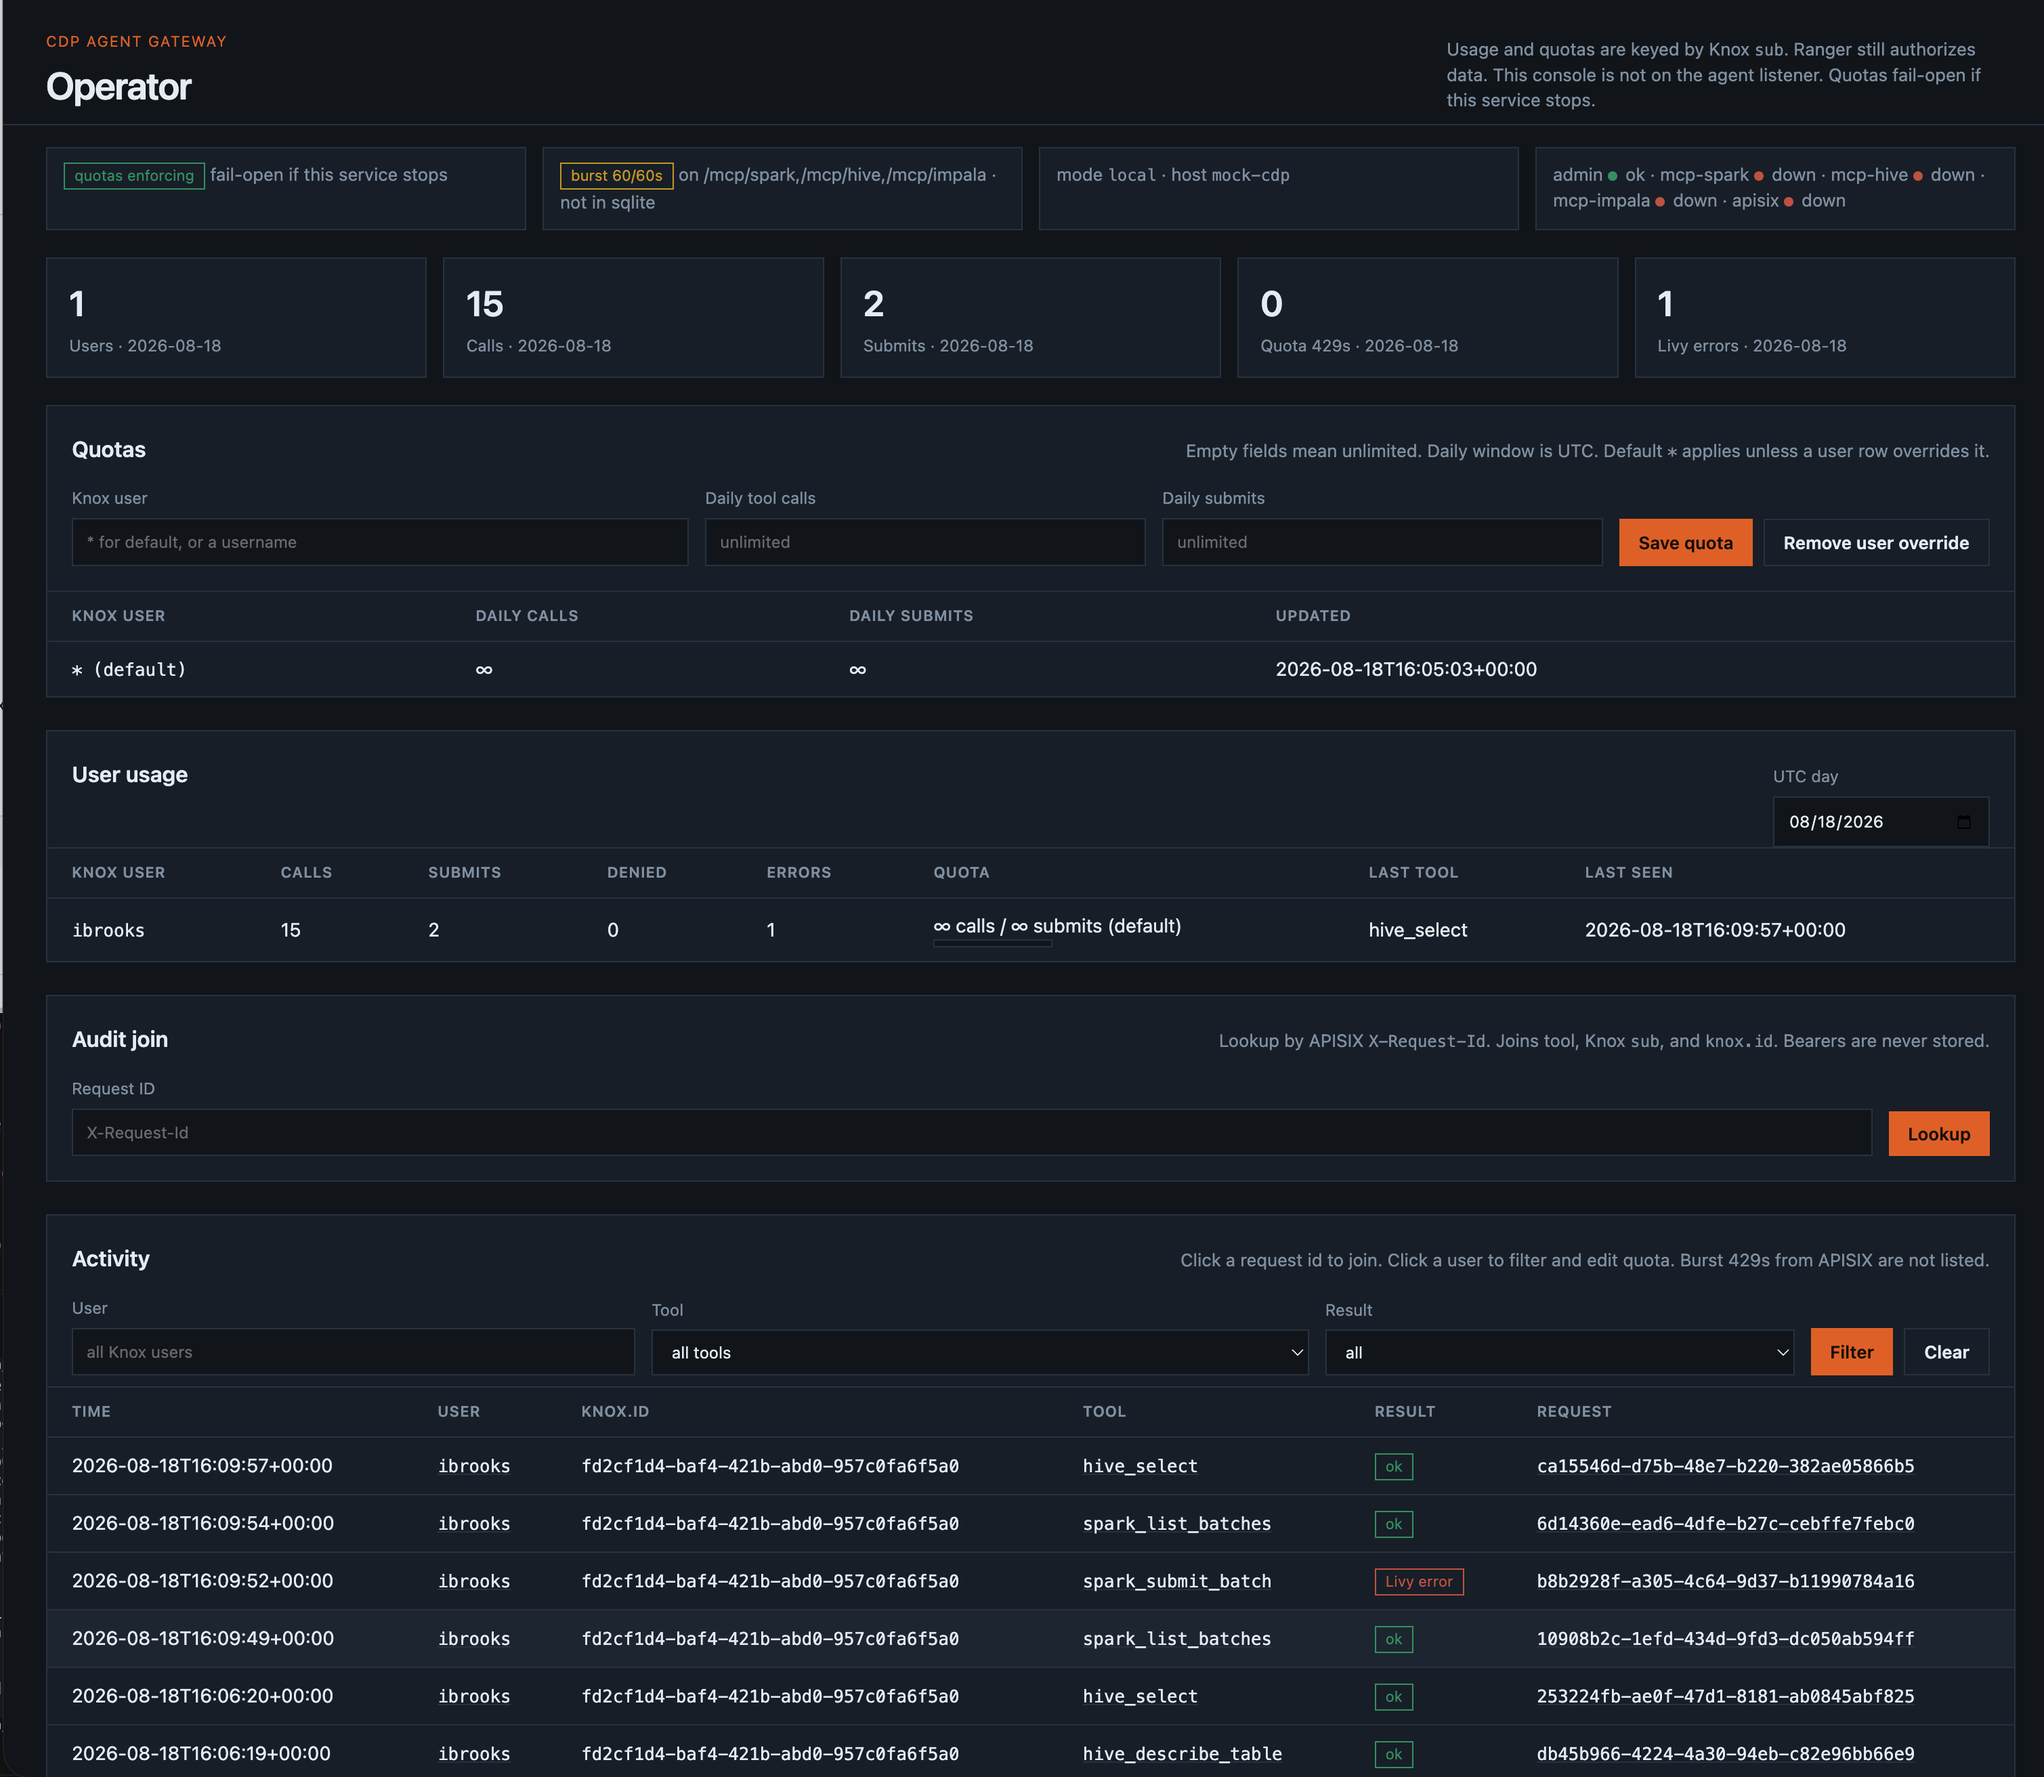
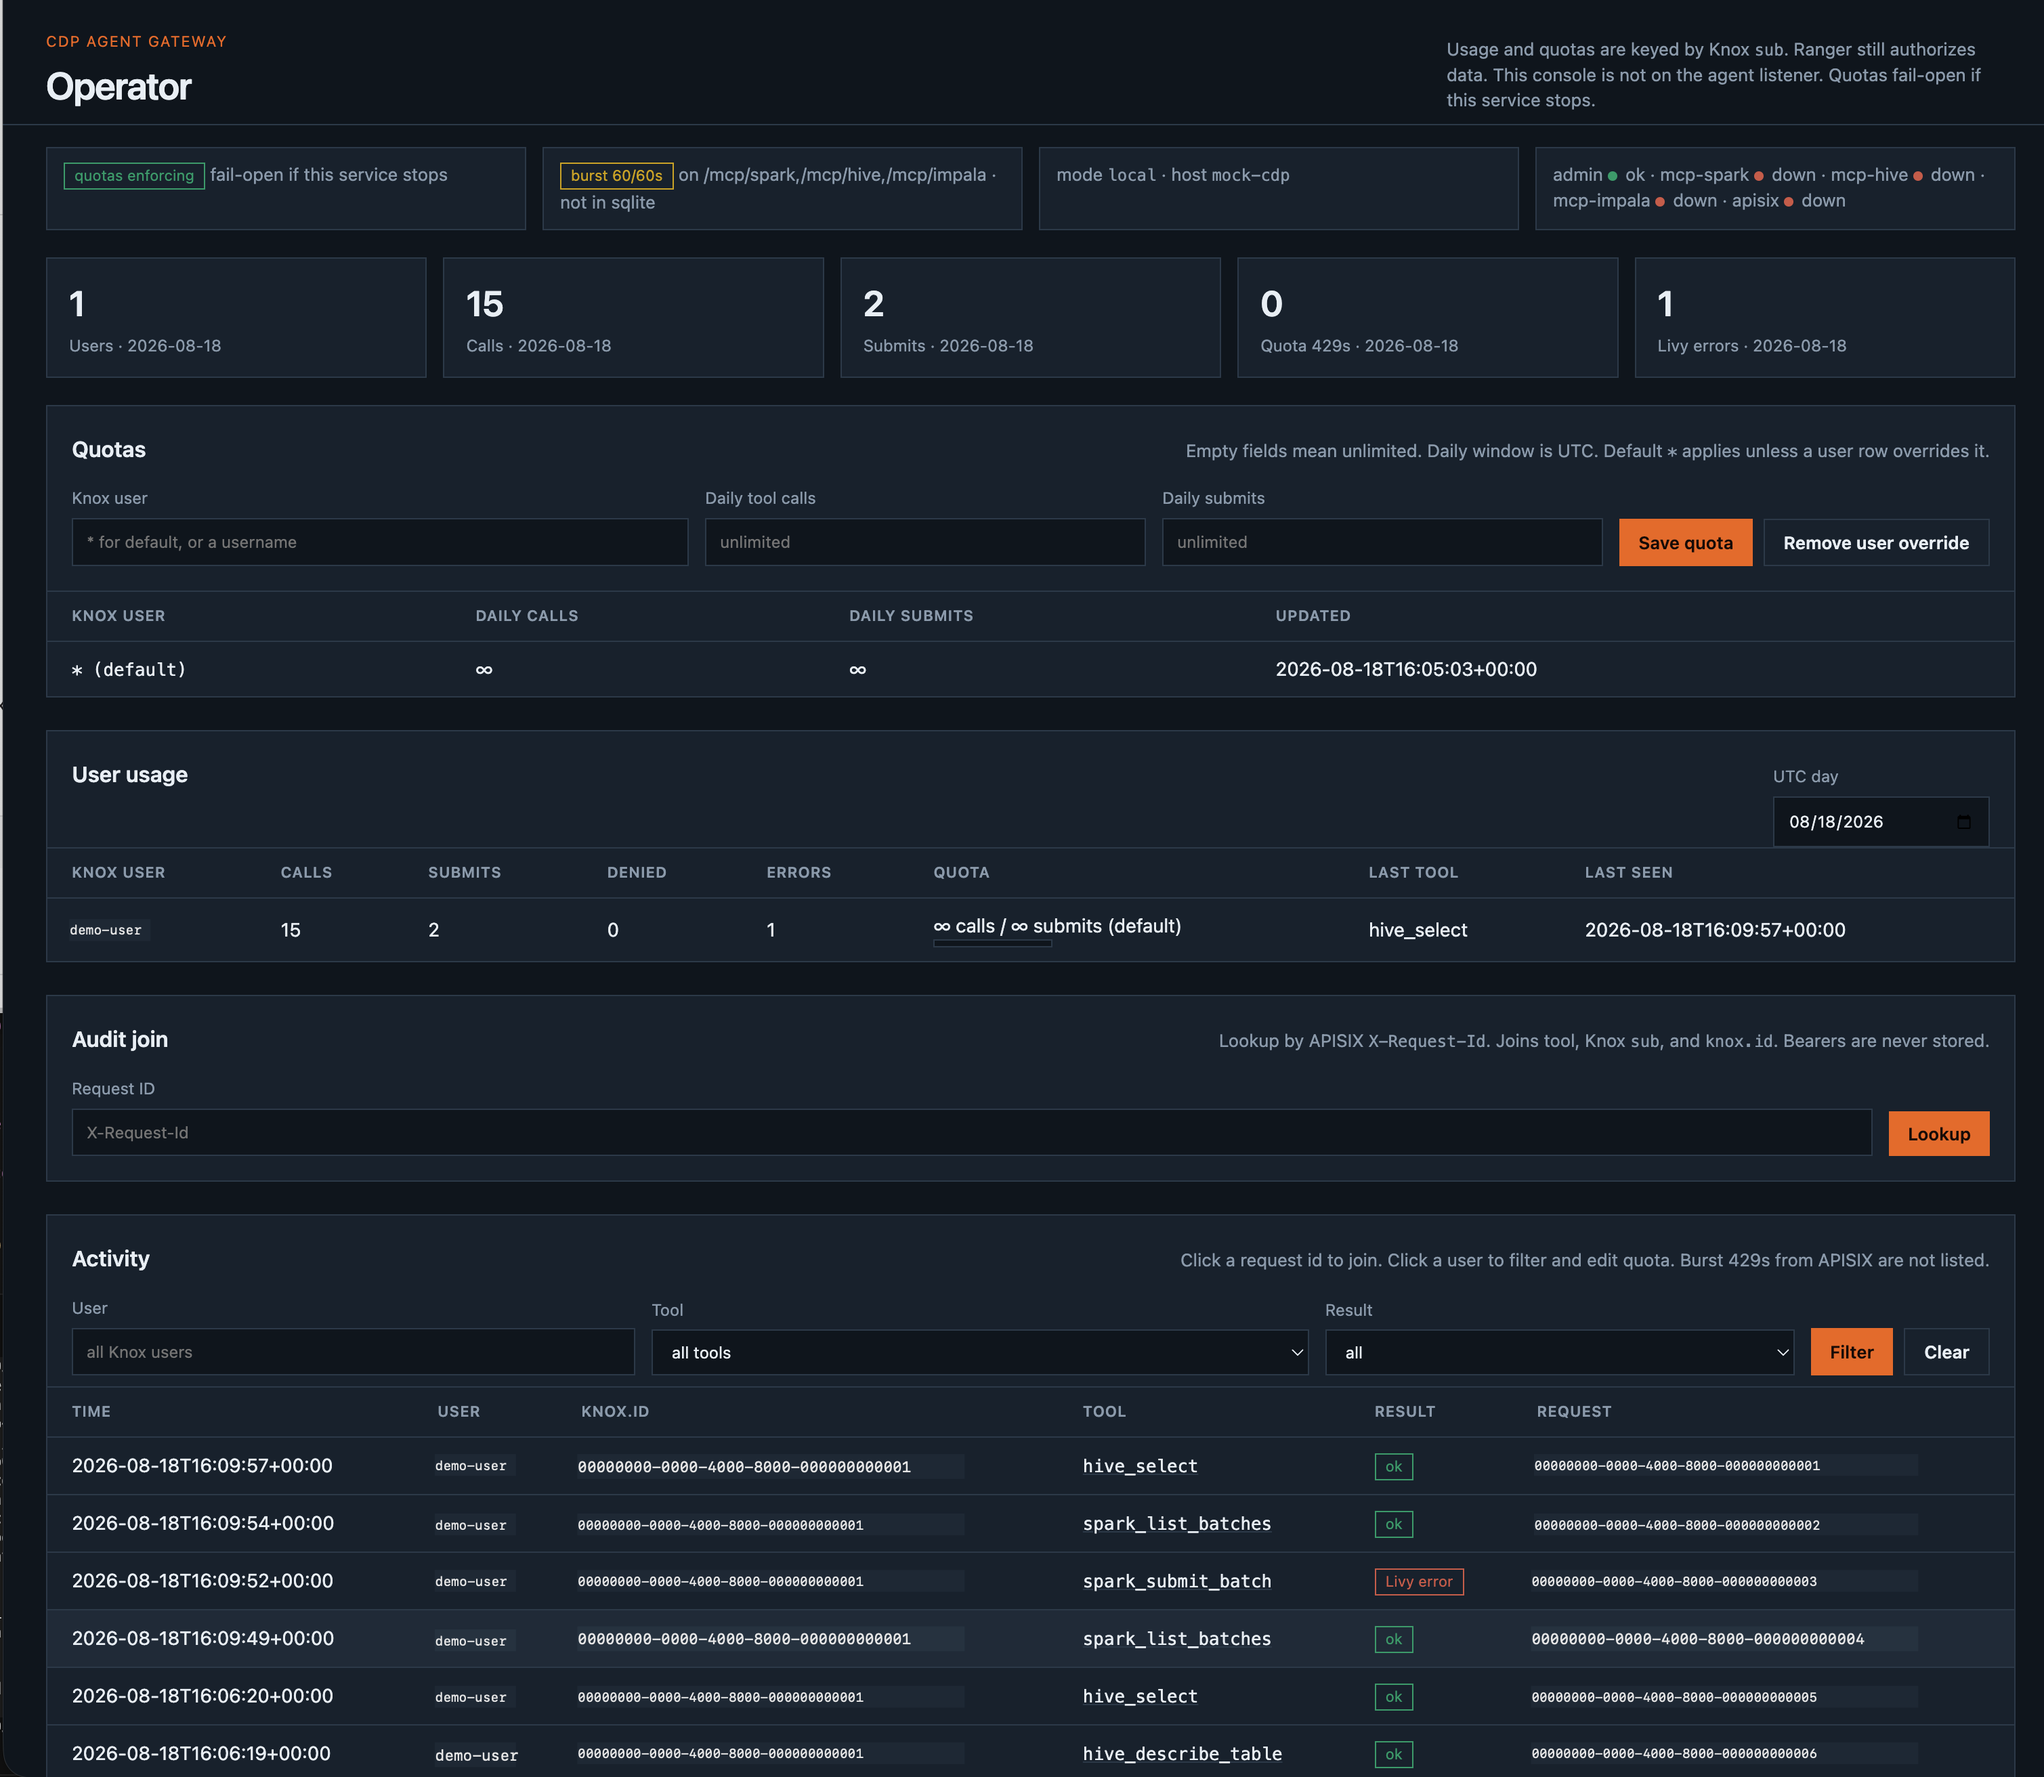
Update Docs

diff --git a/README.md b/README.md
@@ -42,6 +42,14 @@ A recorded Reprise walkthrough is not published yet. The current path is the loc
 
 The admin console is for operators, not MCP hosts. Full walkthrough: [docs/admin.md](docs/admin.md).
 
+On a live cluster the same Knox subject shows up in Spark History, Data Catalog access audits, and the operator activity log after `spark_submit_batch` writes `{user}.count_to_10` and Hive MCP selects it:
+
+![Spark History: count-to-10 batch as the Knox subject](assets/Spark_History_job_run.png)
+
+![Data Catalog access audits for count_to_10 after Hive MCP select](assets/CDP_agent_activity.png)
+
+![Operator console: Spark and Hive MCP usage keyed by Knox sub](assets/Agent_audit_activity.png)
+
 ## Use Case
 
 Enterprises want coding and analytics agents to submit Spark jobs and query Hive or Impala on CDP, but they cannot publish Livy, HiveServer2, or Impala to those tools. This blueprint gives one agent-facing address that allowlists Spark MCP plus read-only Hive and Impala MCP, enforces Knox user identity, and keeps Ranger in charge of data access without replacing the CDP perimeter.
@@ -169,7 +177,7 @@ Extended design: [docs/architecture.md](docs/architecture.md), [docs/amp.md](doc
 
 | Path | Description |
 | --- | --- |
-| `assets/` | Architecture diagram, AMP catalog cover, admin UI screenshots |
+| `assets/` | Architecture diagram, AMP catalog cover, admin UI, Spark History, and Data Catalog screenshots |
 | `deploy/` | Docker Compose (APISIX, mock CDP, mcp-spark, mcp-hive, mcp-impala, admin) |
 | `docs/` | Architecture, Spark, Hive, Impala, admin, identity, AMP, phases, tests |
 | `LICENSE` | Apache License 2.0 |

diff --git a/docs/spark.md b/docs/spark.md
@@ -192,7 +192,11 @@ gateway mcp --tool spark_submit_batch \
   --arg name=count-to-10
 ```
 
-Poll with `spark_get_batch` until `state` is `success` or `dead`. Then query Hive (same JWT): [hive.md](hive.md), [examples/hive/README.md](../examples/hive/README.md).
+Poll with `spark_get_batch` until `state` is `success` or `dead`. Spark History lists the same batch (`count-to-10`) as the Knox subject:
+
+![Spark History: count-to-10 batch as the Knox subject](../assets/Spark_History_job_run.png)
+
+Then query Hive (same JWT): [hive.md](hive.md), [examples/hive/README.md](../examples/hive/README.md).
 
 ```bash
 gateway mcp --adapter hive --tool hive_list_tables --arg database=$USER

diff --git a/docs/hive.md b/docs/hive.md
@@ -101,6 +101,10 @@ gateway mcp --adapter hive --tool hive_select \
 
 A successful `hive_select` looks like `kind=select`, `columns=["n"]`, `returned=10`, `rows` `{"n":"1"}` … `{"n":"10"}`. Named columns are required; `SELECT *` is rejected. If Hive has not seen the table yet, the tool error names `count_to_10` (HTTP 200 JSON-RPC `isError`, not a raw 500).
 
+Ranger still authorizes that `SELECT` as the Knox `sub`. Data Catalog access audits on `{user}.count_to_10` show `ALLOWED` for the same subject:
+
+![Data Catalog access audits for count_to_10 after Hive MCP select](../assets/CDP_agent_activity.png)
+
 Must not:
 
 - run DDL/DML or free-form SQL

diff --git a/examples/spark/README.md b/examples/spark/README.md
@@ -40,7 +40,11 @@ gateway mcp --tool spark_get_batch --arg batch_id=0
 gateway mcp --tool spark_get_log --arg batch_id=0
 ```
 
-When the log shows `iceberg_table=…` (or `spark_get_batch` is `success`), query Hive: [examples/hive/README.md](../hive/README.md).
+When the log shows `iceberg_table=…` (or `spark_get_batch` is `success`), Spark History lists `count-to-10` as the Knox subject:
+
+![Spark History: count-to-10 batch as the Knox subject](../../assets/Spark_History_job_run.png)
+
+Then query Hive: [examples/hive/README.md](../hive/README.md).
 
 ```bash
 gateway mcp --adapter hive --tool hive_list_tables --arg database=$USER

diff --git a/examples/hive/README.md b/examples/hive/README.md
@@ -67,6 +67,10 @@ gateway mcp --adapter hive --tool hive_select \
 
 `hive_describe_table` should show `n` / `bigint` before you select.
 
+Ranger records those reads on `{user}.count_to_10`. Data Catalog **Access Audits** shows `ALLOWED` `SELECT` as the Knox `sub`:
+
+![Data Catalog access audits for count_to_10 after Hive MCP select](../../assets/CDP_agent_activity.png)
+
 If `hive_list_tables` does not list `count_to_10`, wait for `spark_get_batch` `state=success` and retry. Hive MCP returns a tool error when the table is missing; it does not run CREATE TABLE.
 
 ## Lab mock

diff --git a/docs/admin.md b/docs/admin.md
@@ -60,6 +60,10 @@ Usage is per UTC day, keyed by Knox `sub`. Click a request id in Activity (or pa
 
 ![Activity log: tool calls keyed by Knox user and request id](../assets/admin-activity.png)
 
+Live Spark and Hive MCP calls (`spark_submit_batch`, `hive_select`, `hive_describe_table`) appear on the same console, keyed by Knox `sub` and `X-Request-Id`:
+
+![Operator console: Spark and Hive MCP usage keyed by Knox sub](../assets/Agent_audit_activity.png)
+
 ## What it is not
 
 - Not Ranger and not a CDP user directory
